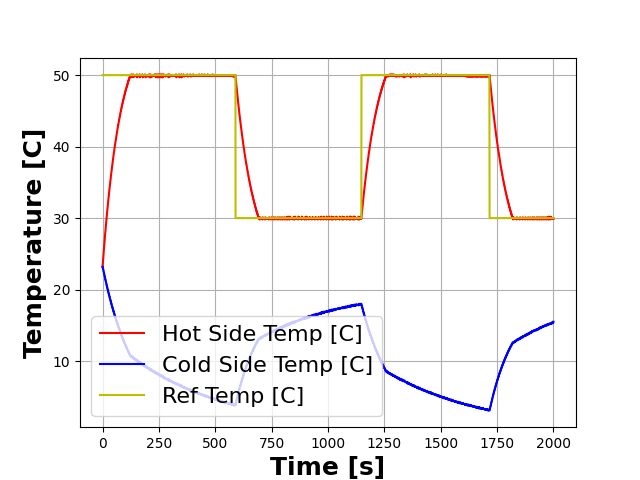
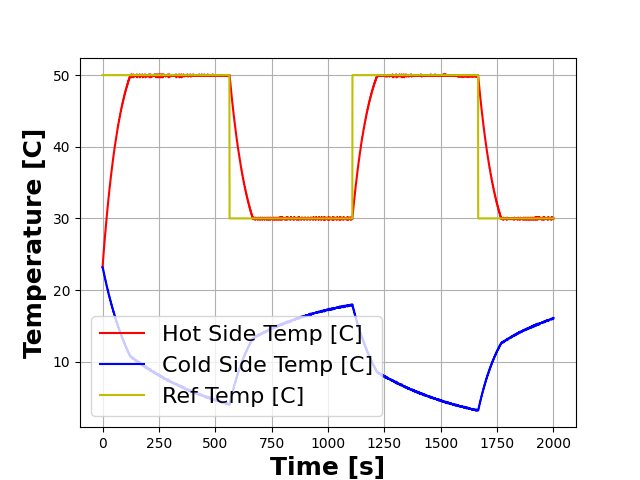
Fix steady state bugs

diff --git a/OpenPelt/OpenPelt.py b/OpenPelt/OpenPelt.py
@@ -148,6 +148,8 @@ class circular_buffer_sequencer(sequencer):
         self.sequence = sequence
         self.sequence_idx = 0
         self.ngspice_custom_lib = ngspice_custom_lib
+        self.ngspice_custom_lib.set_ref(self.sequence[self.sequence_idx],
+                                        self.ngspice_custom_lib.get_plate_select())
 
     def get_ref(self):
         """
@@ -160,8 +162,8 @@ class circular_buffer_sequencer(sequencer):
                 self.sequence_idx = 0
             else:
                 self.sequence_idx += 1
-        self.ngspice_custom_lib.set_ref(self.sequence[self.sequence_idx],
-                                        self.ngspice_custom_lib.get_plate_select())
+            self.ngspice_custom_lib.set_ref(self.sequence[self.sequence_idx],
+                                            self.ngspice_custom_lib.get_plate_select())
         return self.sequence[self.sequence_idx]
 
 
@@ -496,10 +498,9 @@ class tec_lib(PySpice.Spice.NgSpice.Shared.NgSpiceShared):
         self.timestep_counter = self.sim_timesteps_per_sensor_sample
         self.next_v = 0.00
         self.next_i = 0.00
+        assert steady_state_cycles > 0
         self.steady_state_cycles = steady_state_cycles
-        self.th_sensor_window = []
         self.th_sensor_error = []
-        self.tc_sensor_window = []
         self.tc_sensor_error = []
 
     def get_ref_arr(self):
@@ -539,16 +540,13 @@ class tec_lib(PySpice.Spice.NgSpice.Shared.NgSpiceShared):
         """
         self.ref = ref
         self.plate_select = plate_select
-        # Reference temperature cannot be absolute zero :)
-        # More specifically, we're calculating errors using relative error.
-        # Relative error only makes sense on ratio scales, like kelvin, as
-        # opposed to interval scales, like celsius.
-        # https://en.wikipedia.org/wiki/Approximation_error#Examples
-        assert C_to_K(self.ref) != 0.00
-        self.th_sensor_error = [abs(C_to_K(x) - C_to_K(self.ref)) / abs(C_to_K(self.ref)) < ERR_TOL
-                                for x in self.th_sensor_window]
-        self.tc_sensor_error = [abs(C_to_K(x) - C_to_K(self.ref)) / abs(C_to_K(self.ref)) < ERR_TOL
-                                for x in self.tc_sensor_window]
+        # Need to clear th_sensor_error and tc_sensor_error arrays.
+        # Arrays determined by relative error of each reading with the
+        # previous reading. Thus, when the reference is changed, the
+        # system will still technically be in steady state since the
+        # error arrays do not depend on the reference.
+        self.th_sensor_error = []
+        self.tc_sensor_error = []
 
     def send_data(self, actual_vector_values, number_of_vectors, ngspice_id):
         """
@@ -556,27 +554,39 @@ class tec_lib(PySpice.Spice.NgSpice.Shared.NgSpiceShared):
         ngspice simulation.
         """
         if self.timestep_counter == self.sim_timesteps_per_sensor_sample:
+            assert len(self.th_sensor) == len(self.tc_sensor)
+            assert len(self.th_sensor_error) == len(self.tc_sensor_error)
             self.th_sensor.append(
                 round(K_to_C(actual_vector_values['V({})'.format(HOT_SIDE_NODE)].real), ROUND_DIGITS))
-            if len(self.th_sensor_window) == self.steady_state_cycles:
-                del self.th_sensor_window[0]
-            self.th_sensor_window.append(self.th_sensor[-1])
             if len(self.th_sensor_error) == self.steady_state_cycles:
                 del self.th_sensor_error[0]
-            # Reference temperature cannot be absolute zero :)
-            assert C_to_K(self.ref) != 0.00
-            self.th_sensor_error.append(abs(C_to_K(self.th_sensor[-1]) - C_to_K(self.ref)) / C_to_K(self.ref) < ERR_TOL)
+            # Convention: The first element of the error array is always True.
+            # All other elements are determined by the relative error between the
+            # previous sensor reading and the sensor reading at that index.
+
+            # We're calculating errors using relative error.
+            # Relative error only makes sense on ratio scales, like kelvin, as
+            # opposed to interval scales, like celsius.
+            # https://en.wikipedia.org/wiki/Approximation_error#Examples
+            if len(self.th_sensor_error) == 0:
+                self.th_sensor_error.append(True)
+            else:
+                self.th_sensor_error.append(abs(C_to_K(self.th_sensor[-2]) -
+                                                C_to_K(self.th_sensor[-1])) /
+                                                C_to_K(self.th_sensor[-2]) < ERR_TOL)
             self.tc_sensor.append(
                 round(K_to_C(actual_vector_values['V({})'.format(COLD_SIDE_NODE)].real), ROUND_DIGITS))
-            if len(self.tc_sensor_window) == self.steady_state_cycles:
-                del self.tc_sensor_window[0]
-            self.tc_sensor_window.append(self.tc_sensor[-1])
             if len(self.tc_sensor_error) == self.steady_state_cycles:
                 del self.tc_sensor_error[0]
-            # Reference temperature cannot be absolute zero :)
-            assert C_to_K(self.ref) != 0.00
-            self.tc_sensor_error.append(abs(C_to_K(self.tc_sensor[-1]) - C_to_K(self.ref)) / C_to_K(self.ref) < ERR_TOL)
+            if len(self.tc_sensor_error) == 0:
+                self.tc_sensor_error.append(True)
+            else:
+                self.tc_sensor_error.append(abs(C_to_K(self.tc_sensor[-2]) -
+                                                C_to_K(self.tc_sensor[-1])) /
+                                                C_to_K(self.tc_sensor[-2]) < ERR_TOL)
             self.timestep_counter = 0
+            assert len(self.th_sensor) == len(self.tc_sensor)
+            assert len(self.th_sensor_error) == len(self.tc_sensor_error)
         else:
             self.th_sensor.append(self.th_sensor[len(self.th_sensor) - 1])
             self.tc_sensor.append(self.tc_sensor[len(self.tc_sensor) - 1])

diff --git a/OpenPelt/__init__.py b/OpenPelt/__init__.py
@@ -1,2 +1,2 @@
-from .OpenPelt import tec_plant, circular_buffer_sequencer, TECPlate, Signal, IndVar
+from .OpenPelt import tec_plant, sequencer, circular_buffer_sequencer, TECPlate, Signal, IndVar
 from .controller import controller, random_controller, bang_bang_controller, pid_controller
